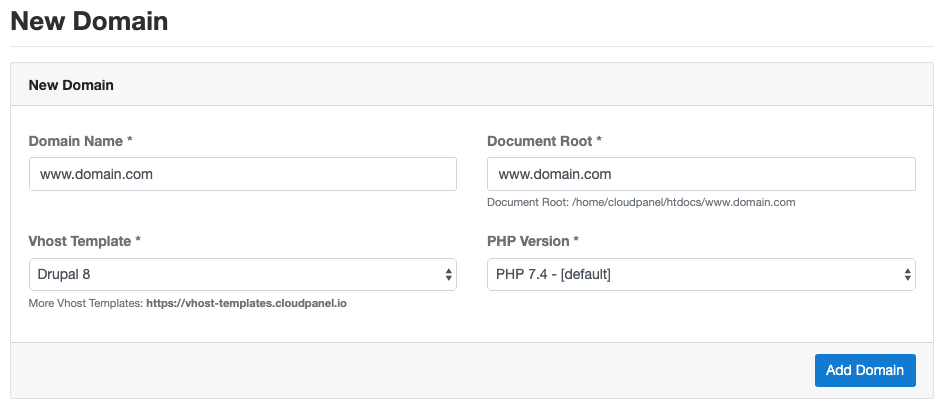
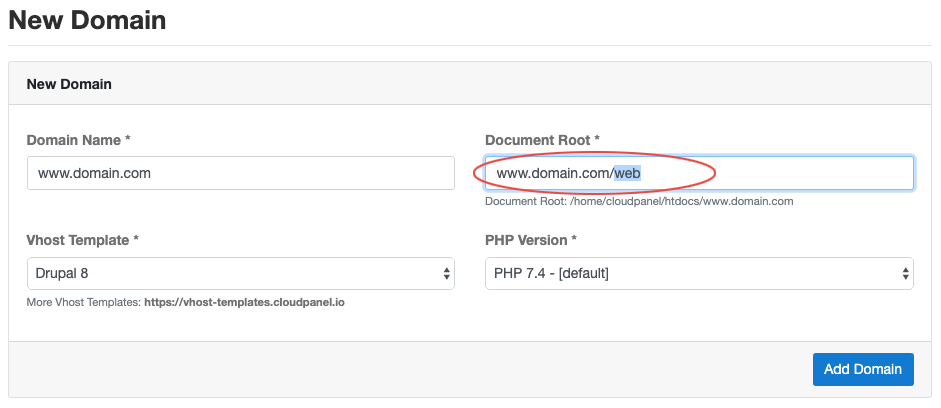
.

diff --git a/cloudpanel-ce/sidebars.js b/cloudpanel-ce/sidebars.js
@@ -77,6 +77,7 @@ module.exports = {
           label: 'Drupal',
           items: [
             'application-drupal-8',
+            'application-drupal-9',
           ]
         },
         {

diff --git a/cloudpanel-ce/docs/application-drupal-8.md b/cloudpanel-ce/docs/application-drupal-8.md
@@ -21,59 +21,50 @@ When you [Add the Domain](domains#adding-a-domain), make sure to select the **Dr
 
 <img class="border" src={useBaseUrl('img/v1/applications/drupal8/new_domain.png')} /> <br /><br />
 
+:::warning Document Root
+Make sure to point the **Document Root** to the **web** directory.
+:::
+
 ### Installation
 
 To install **Drupal 8** do the following steps:
 
-1. [Login via SSH](users#ssh-login) to the server e.g. with **john-ssh** and go to the users **tmp** directory:
+1. [Login via SSH](users#ssh-login) to the server e.g. with **john-ssh** and go to the **htdocs** directory:
 
 ```
-cd ~/tmp
+cd /home/cloudpanel/htdocs/
 ```
 
-2. Download and extract the latest **Drupal 8** version.
+2. Delete the project directory which has been created by **CloudPanel**:
 
 ```
-curl -sL https://ftp.drupal.org/files/projects/drupal-8.8.6.tar.gz | tar xfz -
+rm -rf /home/cloudpanel/htdocs/www.domain.com
 ```
 
-3. Move files to the **htdocs** directory of the domain:
+3. Create the project with **composer**:
 
 ```
-cp -R drupal-8.8.6/* /home/cloudpanel/htdocs/www.domain.com/
+php7.4 /usr/local/bin/composer create-project drupal/recommended-project:^8 www.domain.com
 ```
 
-4. Install dependencies with **composer**:
-
-```
-cd /home/cloudpanel/htdocs/www.domain.com/
-php7.4 /usr/local/bin/composer install --no-dev
-```
-
-5. Reset permissions.
+4. Reset permissions.
 
 ```
 cd /home/cloudpanel/htdocs/
 clpctl system:permissions:reset www.domain.com 775
 ```
 
-6. Clean up the **tmp** directory.
+5. Copy **Drupal** settings file.
 
 ```
-rm -rf ~/tmp/*
-```
-
-7. Copy **Drupal** settings file.
-
-```
-cd /home/cloudpanel/htdocs/www.domain.com/
+cd /home/cloudpanel/htdocs/www.domain.com/web/
 cp sites/default/default.settings.php sites/default/settings.php
 ```
 
-8. Open your domain in the browser and go through the **Drupal Installer**.
+6. Open your domain in the browser and go through the **Drupal Installer**.
 
 <img class="border" src={useBaseUrl('img/v1/applications/drupal8/installer.png')} /> 
 
-9. Done! **Drupal 8** is now installed.
+7. Done! **Drupal 8** is now installed.
 
 <img class="border" src={useBaseUrl('img/v1/applications/drupal8/welcome.png')} /> 

diff --git a/cloudpanel-ce/docs/application-drupal-9.md b/cloudpanel-ce/docs/application-drupal-9.md
@@ -1,0 +1,70 @@
+---
+id: application-drupal-9
+title: Drupal 9
+sidebar_label: Drupal 9
+---
+
+import useBaseUrl from '@docusaurus/useBaseUrl';
+
+On this page, we explain step by step how to setup **Drupal 9** with **CloudPanel**.
+
+## Installation
+
+In the following example we will setup **Drupal 9** under the domain ***www.domain.com***.
+
+### Preparation
+
+Before we can start with the installation of **Drupal 9**, we need to create an [SSH User](users#adding-a-user), a [Database](databases#adding-a-database) <br />
+and a [Domain](domains#adding-a-domain).
+
+When you [Add the Domain](domains#adding-a-domain), make sure to select the **Drupal 9 Vhost Template** and the right **PHP Version**.
+
+<img class="border" src={useBaseUrl('img/v1/applications/drupal9/new_domain.png')} /> <br /><br />
+
+:::warning Document Root
+Make sure to point the **Document Root** to the **web** directory.
+:::
+
+### Installation
+
+To install **Drupal 9** do the following steps:
+
+1. [Login via SSH](users#ssh-login) to the server e.g. with **john-ssh** and go to the **htdocs** directory:
+
+```
+cd /home/cloudpanel/htdocs/
+```
+
+2. Delete the project directory which has been created by **CloudPanel**:
+
+```
+rm -rf /home/cloudpanel/htdocs/www.domain.com
+```
+
+3. Create the project with **composer**:
+
+```
+php7.4 /usr/local/bin/composer create-project drupal/recommended-project:^9.0.0-beta3 www.domain.com
+```
+
+4. Reset permissions.
+
+```
+cd /home/cloudpanel/htdocs/
+clpctl system:permissions:reset www.domain.com 775
+```
+
+5. Copy **Drupal** settings file.
+
+```
+cd /home/cloudpanel/htdocs/www.domain.com/web/
+cp sites/default/default.settings.php sites/default/settings.php
+```
+
+6. Open your domain in the browser and go through the **Drupal Installer**.
+
+<img class="border" src={useBaseUrl('img/v1/applications/drupal9/installer.png')} /> 
+
+7. Done! **Drupal 9** is now installed.
+
+<img class="border" src={useBaseUrl('img/v1/applications/drupal9/welcome.png')} /> 
